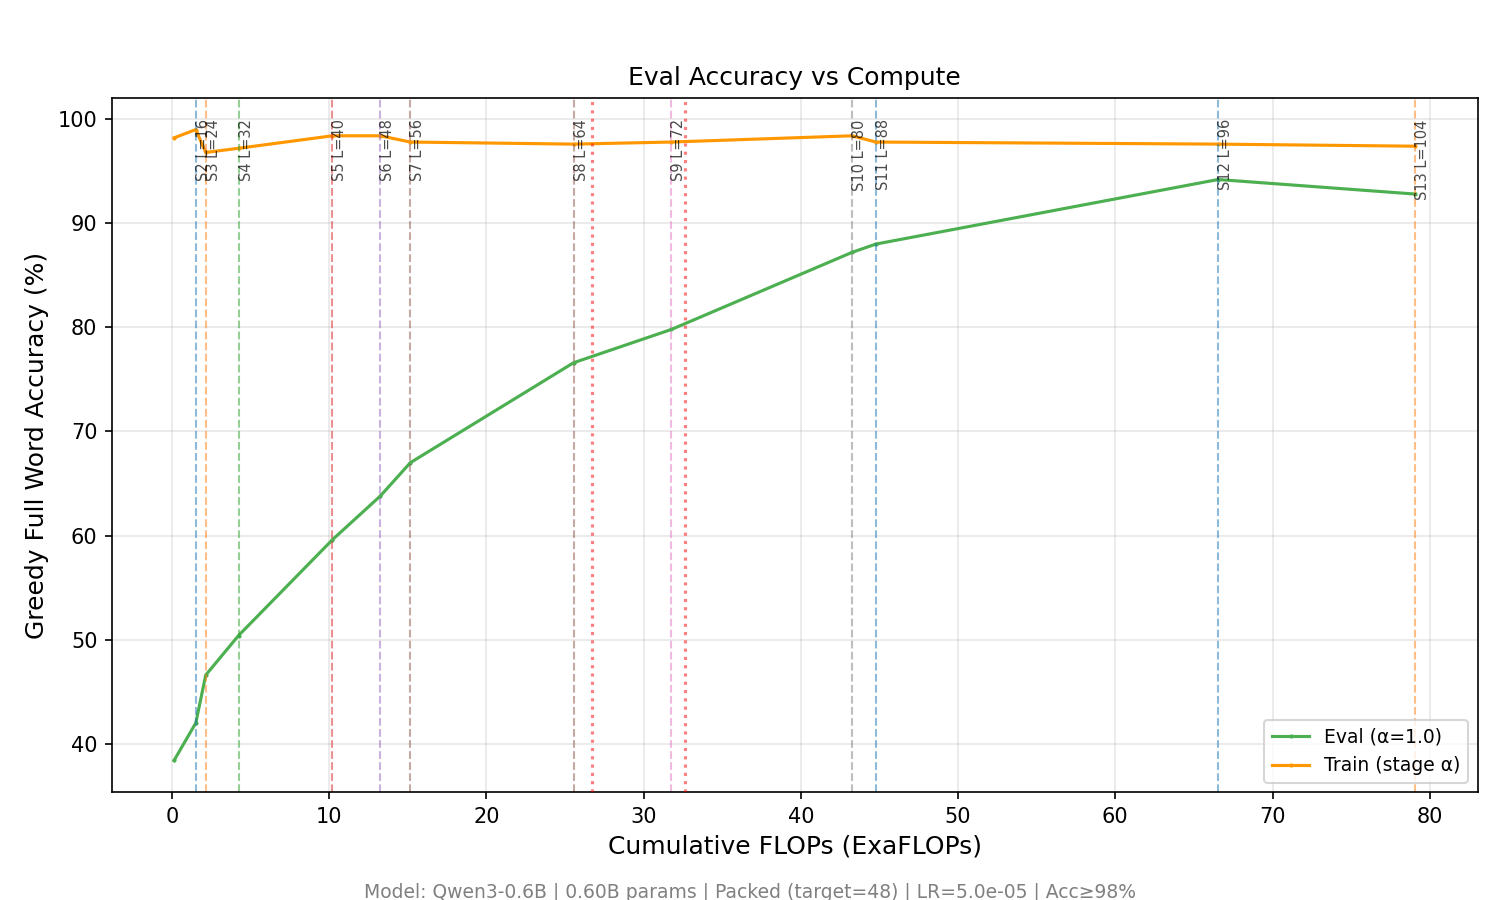
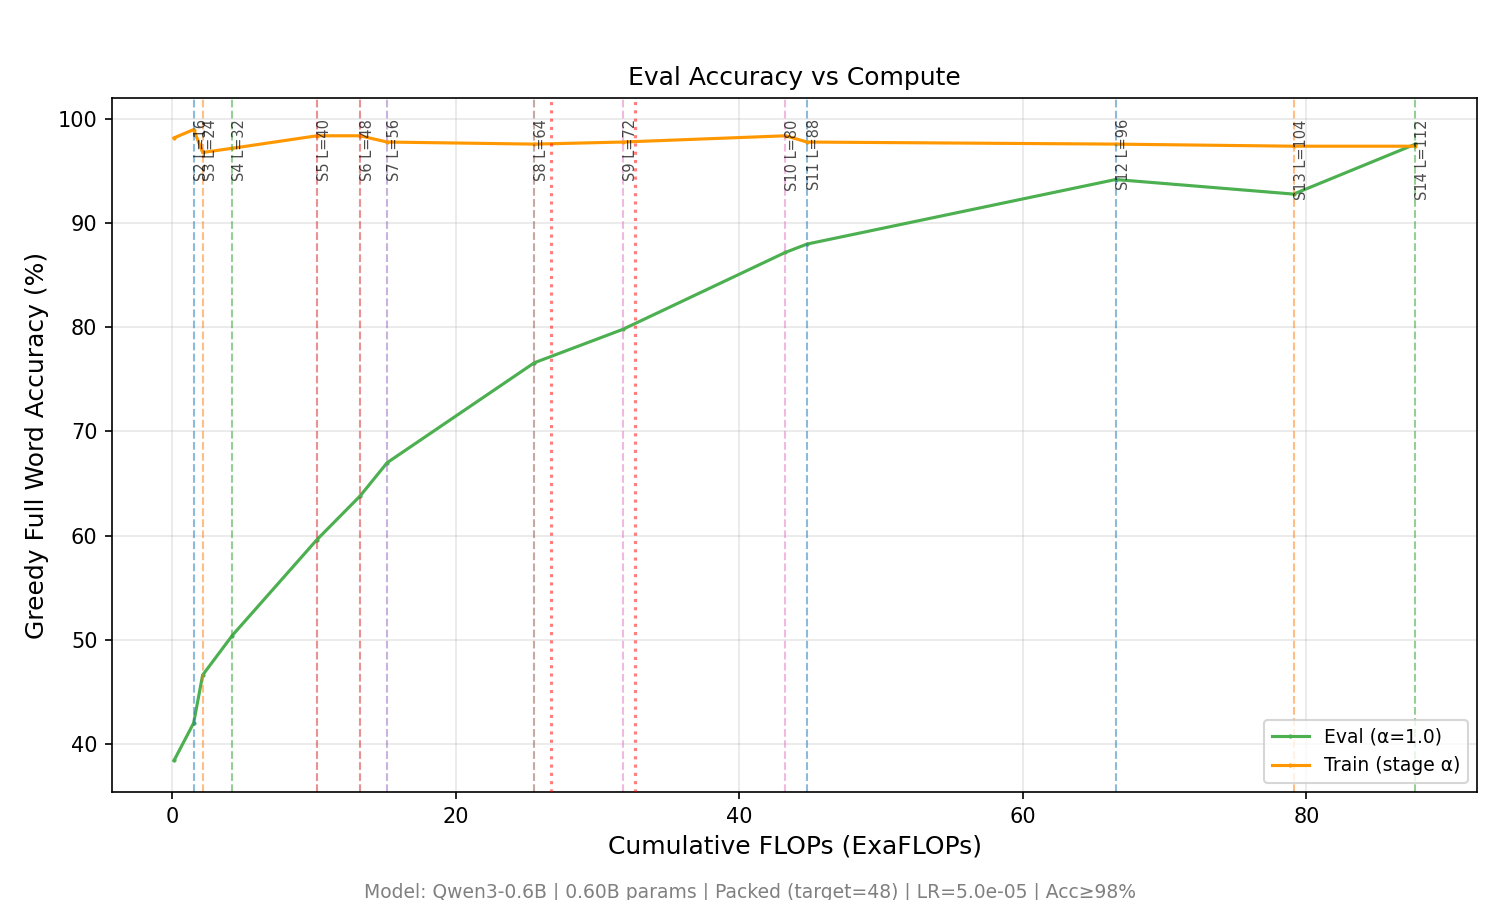
chore(exp1): sync live training progress at 2026-10-12 10:27 UTC (Full-FT Stage 14 complete -> Stage 15 L=120)

diff --git a/PROGRESS.md b/PROGRESS.md
@@ -3,7 +3,7 @@
 **Base commit:** `da7b19c` (`main`)
 **Branch:** `jackierwzhang/exp1-qwen06b-lora-vs-fullft`
 **VMs:** `nl-exp1-spot-fullft` (`a3-highgpu-4g`, 4x H100-80GB Spot, `europe-west1-c`), `nl-exp1-spot-r8` (`a3-highgpu-4g`, 4x H100-80GB Spot, `us-east4-a`), `nl-exp1-spot-r64` (`a3-highgpu-4g`, 4x H100-80GB Spot, `europe-west1-c`), `nl-exp1-spot-r256` (`a3-highgpu-4g`, 4x H100-80GB Spot, `us-east4-b`)
-**Last updated:** 2026-10-12 10:10 UTC
+**Last updated:** 2026-10-12 10:27 UTC
 
 ## Shared Configuration
 
@@ -25,12 +25,12 @@
 
 | Arm | Job ID | Mode | GPUs | Status | Step | Stage / $L$ | Rolling Full Acc | Rolling First Acc | Loss | PFLOPs | TFLOP/s | Wall Time | Est. Remaining |
 | :--- | :--- | :--- | :--- | :--- | ---: | :--- | ---: | ---: | ---: | ---: | ---: | ---: | :--- |
-| Full-FT | `exp1_qwen06b_fullft` | Full FT | 0,1,2,3 (Spot 4x H100: nl-exp1-spot-fullft, europe-west1-c) | Running | 23270 | 14 (`L=112`) | 98.00% | 98.88% | 0.0181 | 87652.77 | 411.7 | 56.80h | ~13.5h (stage-wt) / ~0.0h (82k PFLOPs ref) |
-| LoRA `R=8` | `exp1_qwen06b_lora_r8` | `--use_lora --lora_rank 8` (`alpha=16, dropout=0.1`) | 0,1,2,3 (Spot 4x H100: nl-exp1-spot-r8, us-east4-a) | Running | 25200 | 10 (`L=80`) | 97.50% | 98.12% | 0.0210 | 63012.85 | 241.9 | 56.08h | ~84.6h (stage-wt) / ~16.9h (82k PFLOPs ref) |
-| LoRA `R=64` | `exp1_qwen06b_lora_r64` | `--use_lora --lora_rank 64` (`alpha=128, dropout=0.1`) | 0,1,2,3 (Spot 4x H100: nl-exp1-spot-r64, europe-west1-c) | Running | 17760 | 12 (`L=96`) | 95.25% | 97.00% | 0.0213 | 52749.38 | 223.9 | 49.05h | ~37.5h (stage-wt) / ~27.2h (82k PFLOPs ref) |
-| LoRA `R=256` | `exp1_qwen06b_lora_r256` | `--use_lora --lora_rank 256` (`alpha=512, dropout=0.1`) | 0,1,2,3 (Spot 4x H100: nl-exp1-spot-r256, us-east4-b) | Running | 18270 | 8 (`L=64`) | 96.38% | 97.88% | 0.0287 | 42072.30 | 162.7 | 54.50h | ~164.8h (stage-wt) / ~51.7h (82k PFLOPs ref) |
+| Full-FT | `exp1_qwen06b_fullft` | Full FT | 0,1,2,3 (Spot 4x H100: nl-exp1-spot-fullft, europe-west1-c) | Running | 23360 | 15 (`L=120`) | 95.88% | 97.38% | 0.0200 | 88221.22 | 404.9 | 57.12h | ~9.9h (stage-wt) / ~0.0h (82k PFLOPs ref) |
+| LoRA `R=8` | `exp1_qwen06b_lora_r8` | `--use_lora --lora_rank 8` (`alpha=16, dropout=0.1`) | 0,1,2,3 (Spot 4x H100: nl-exp1-spot-r8, us-east4-a) | Running | 25280 | 10 (`L=80`) | 96.00% | 97.75% | 0.0211 | 63356.24 | 241.2 | 56.38h | ~85.1h (stage-wt) / ~16.6h (82k PFLOPs ref) |
+| LoRA `R=64` | `exp1_qwen06b_lora_r64` | `--use_lora --lora_rank 64` (`alpha=128, dropout=0.1`) | 0,1,2,3 (Spot 4x H100: nl-exp1-spot-r64, europe-west1-c) | Running | 17820 | 12 (`L=96`) | 96.62% | 97.62% | 0.0233 | 53056.16 | 222.7 | 49.33h | ~37.8h (stage-wt) / ~26.9h (82k PFLOPs ref) |
+| LoRA `R=256` | `exp1_qwen06b_lora_r256` | `--use_lora --lora_rank 256` (`alpha=512, dropout=0.1`) | 0,1,2,3 (Spot 4x H100: nl-exp1-spot-r256, us-east4-b) | Running | 18330 | 8 (`L=64`) | 95.62% | 97.75% | 0.0212 | 42280.26 | 162.3 | 54.76h | ~155.9h (stage-wt) / ~51.4h (82k PFLOPs ref) |
 
-> **ETA Methodology & Overall Experiment 1 Completion (All 4 Arms Running Concurrently on 16x Spot H100):** `stage-wt` scales current wall time by remaining lookahead units ($\sum_{k=1}^{16} k = 136$); `82k PFLOPs ref` divides remaining compute against the collaborator's `Qwen3-0.6B` `step=8` cold-start reference (`82,000 PFLOPs` to `L=128`) by the arm's measured `PFLOPs/h` rate. Fastest arm completion is estimated in **~13.5h (stage-wt) / ~0.0h (82k PFLOPs ref)**; full 4-arm concurrent completion is bounded by the slowest arm at **~164.8h (stage-wt) to ~51.7h (82k PFLOPs ref)**.
+> **ETA Methodology & Overall Experiment 1 Completion (All 4 Arms Running Concurrently on 16x Spot H100):** `stage-wt` scales current wall time by remaining lookahead units ($\sum_{k=1}^{16} k = 136$); `82k PFLOPs ref` divides remaining compute against the collaborator's `Qwen3-0.6B` `step=8` cold-start reference (`82,000 PFLOPs` to `L=128`) by the arm's measured `PFLOPs/h` rate. Fastest arm completion is estimated in **~9.9h (stage-wt) / ~0.0h (82k PFLOPs ref)**; full 4-arm concurrent completion is bounded by the slowest arm at **~155.9h (stage-wt) to ~51.4h (82k PFLOPs ref)**.
 
 ## Stage Evaluation Summary (`stage_eval_history.json`)
 
@@ -49,6 +49,7 @@
 | Full-FT | 11 | 15300 | 88 | 0.697 | 0.0947 | 88.00% | 88.00% | 98.00% | 97.80% |
 | Full-FT | 12 | 19550 | 96 | 0.760 | 0.0466 | 94.20% | 94.20% | 97.80% | 97.60% |
 | Full-FT | 13 | 21825 | 104 | 0.823 | 0.0409 | 92.80% | 92.80% | 97.40% | 97.40% |
+| Full-FT | 14 | 23275 | 112 | 0.886 | 0.0347 | 97.60% | 97.60% | 97.60% | 97.40% |
 | LoRA `R=8` | 1 | 475 | 8 | 0.067 | 0.4921 | 40.00% | 39.40% | 98.80% | 98.80% |
 | LoRA `R=8` | 2 | 2700 | 16 | 0.130 | 0.3356 | 43.20% | 42.40% | 99.60% | 99.60% |
 | LoRA `R=8` | 3 | 6000 | 24 | 0.193 | 0.3237 | 48.20% | 47.60% | 97.40% | 97.40% |
